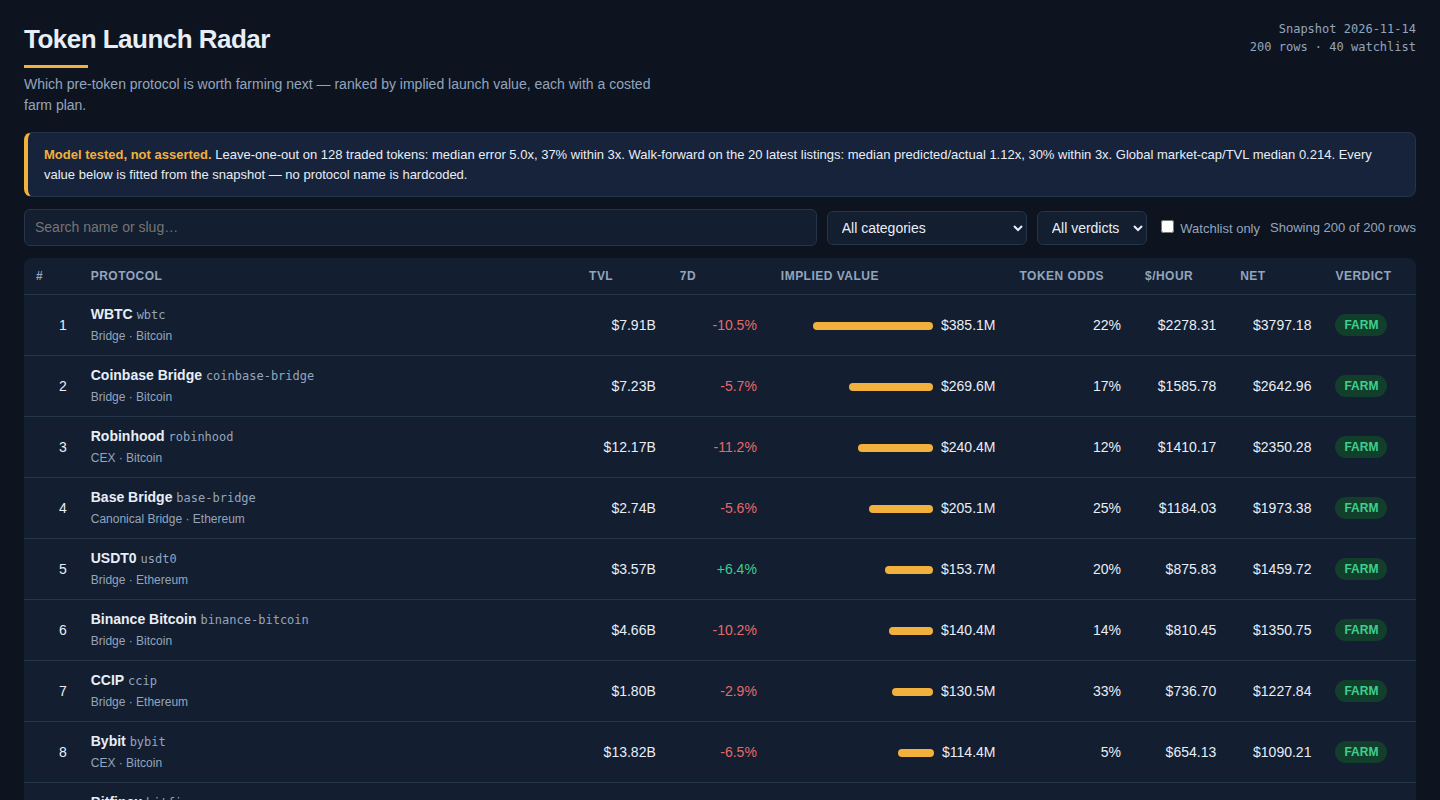
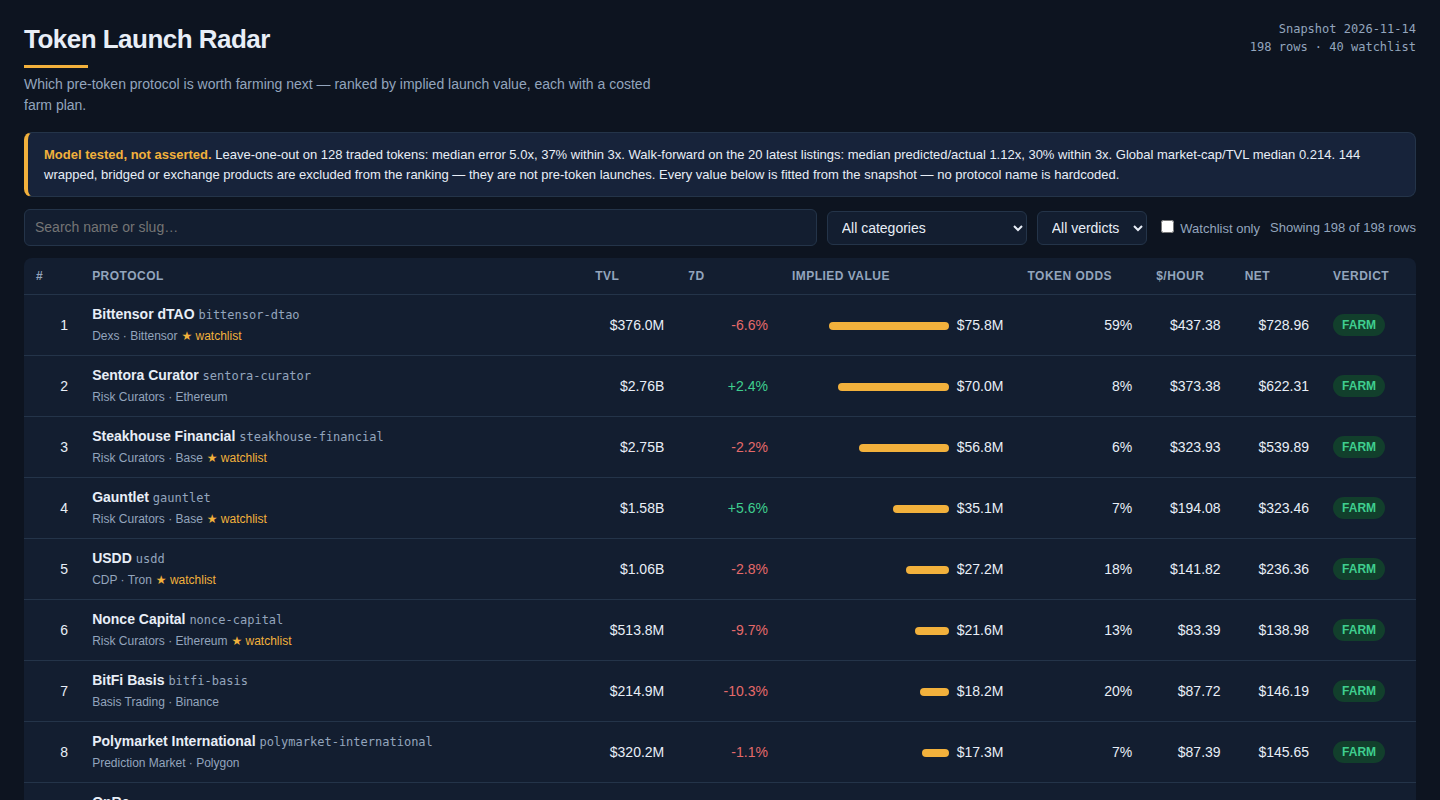
token-radar v12 rev: exclude wrapped/bridge/CEX from the pre-token ranking
Apply the bounty's own watchlist rule to the whole board
(isWrappedOrBridged in lib/model.ts): Bridge, Canonical Bridge,
Liquid Staking, Liquid Restaking, Restaked BTC, CEX categories,
wrapped/staked/staking names, exchange-name prefixes, version
markers. 144 of 342 pre-token protocols excluded; board is now 198
rows (40 watchlist + 158), topped by Bittensor dTAO, Sentora
Curator, Steakhouse, Gauntlet. Screenshots regenerated from the
same build; gates 19/19 clean, determinism verified.

diff --git a/lib/model.ts b/lib/model.ts
@@ -4,6 +4,9 @@
 // snapshot. No protocol name is hardcoded anywhere. The only baked-in numbers
 // are the estimator's shape (shrinkage strength, trim, clamps), the chain cost
 // table (typical gas, rounded), and the farmer's stated position size.
+// A wrapped, bridged, staked or exchange product is never ranked as a
+// pre-token launch: the bounty's own watchlist rule excludes it, and this
+// module applies that rule to the whole board (see isWrappedOrBridged).
 
 export interface Protocol {
   slug: string;
@@ -75,6 +78,7 @@ export interface Validation {
   global_ratio_median: number;
   comps_n: number;
   global_token_rate: number;
+  excluded_wrapped: number;
 }
 
 export interface ModelOut {
@@ -102,6 +106,46 @@ export function clamp(x: number, lo: number, hi: number): number {
 /** Records a token when DefiLlama carries a gecko id or a symbol for it. */
 export function recordsToken(p: Protocol): boolean {
   return p.gecko_id !== null || p.symbol !== null;
+}
+
+// ----------------------------------------------------------------
+// Wrapped / bridged / staked / exchange products
+//
+// The bounty's own watchlist rule keeps these off the watchlist, and the
+// same rule decides the whole board: a wrapped, staked or bridged product
+// of a token that already trades is not a pre-token launch, however large
+// its TVL. WBTC, Binance staked ETH and USDT0 are the rule's own examples.
+// The lists below are the rule's own lists from the bounty text (categories
+// and exchange names), not a list of protocol names: no protocol name is
+// hardcoded anywhere.
+
+/** Categories the watchlist rule excludes: bridges and exchange products. */
+export const EXCLUDED_CATEGORIES = new Set([
+  'Bridge',
+  'Canonical Bridge',
+  'Liquid Staking',
+  'Liquid Restaking',
+  'Restaked BTC',
+  'CEX',
+]);
+
+/** Exchange names the watchlist rule excludes when a name begins with one. */
+export const EXCHANGE_NAMES = [
+  'Binance', 'Coinbase', 'Bybit', 'Kraken', 'Bitget', 'OKX', 'Bitfinex', 'Gemini',
+];
+
+const WRAPPED_WORD = /\b(wrapped|staked|staking)\b/i;
+const VERSION_MARKER = /\s(v\d+|\d+\.\d+)$/i;
+
+/** True when a protocol is a wrapped, staked or bridged product of a token
+ *  that already trades, or an exchange product — the watchlist rule's
+ *  exclusion, applied to the whole board. */
+export function isWrappedOrBridged(p: Protocol): boolean {
+  if (EXCLUDED_CATEGORIES.has(p.category ?? '')) return true;
+  if (WRAPPED_WORD.test(p.name)) return true;
+  if (EXCHANGE_NAMES.some((n) => p.name.startsWith(n))) return true;
+  if (VERSION_MARKER.test(p.name)) return true;
+  return false;
 }
 
 /** Priced comps: a token that trades with a positive market cap and real TVL. */
@@ -330,8 +374,14 @@ export function buildBoard(snap: Snapshot): ModelOut {
 
   const preToken = ps.filter((p) => !recordsToken(p));
   const watchRows = preToken.filter((p) => watch.has(p.slug));
+  // The extra rows are pre-token protocols below the floor — with the
+  // watchlist rule's wrapped/bridge/CEX exclusion applied to the whole
+  // board, so a wrapped product of a token that already trades can never
+  // top the ranking on TVL alone. The watchlist rows pass the rule by
+  // construction (the snapshot's list was produced by it).
+  const excludedWrapped = preToken.filter((p) => !watch.has(p.slug) && isWrappedOrBridged(p)).length;
   const extra = preToken
-    .filter((p) => !watch.has(p.slug))
+    .filter((p) => !watch.has(p.slug) && !isWrappedOrBridged(p))
     .sort((a, b) => b.tvl_usd - a.tvl_usd)
     .slice(0, 160);
   const picked = [...watchRows, ...extra];
@@ -415,6 +465,7 @@ export function buildBoard(snap: Snapshot): ModelOut {
       global_ratio_median: +Math.exp(fit.globalLog).toFixed(3),
       comps_n: comps.length,
       global_token_rate: +rates.global.toFixed(3),
+      excluded_wrapped: excludedWrapped,
     },
     fitted: { global_log_ratio: +fit.globalLog.toFixed(3), by_category: byCat },
     comp_log_ratios: compLogRatios,

diff --git a/dashboard/index.html b/dashboard/index.html
@@ -53,7 +53,7 @@
 </main>
 
 <footer>
-  <p>Implied value is this radar's own claim, fitted from the snapshot — never make.fun's. A $1,000 farm is assumed to capture 0.001% of launch value; time is valued at $15 an hour. A protocol is said to record no token, never that it has none. Model: shrinkage-trimmed category comps (k=5) with token odds — see 00-model-validation.md. Protocols whose token already trades are the training set, not the ranking.</p>
+  <p>Implied value is this radar's own claim, fitted from the snapshot — never make.fun's. A $1,000 farm is assumed to capture 0.001% of launch value; time is valued at $15 an hour. A protocol is said to record no token, never that it has none. Model: shrinkage-trimmed category comps (k=5) with token odds — see 00-model-validation.md. Protocols whose token already trades are the training set, not the ranking — and wrapped, bridged, staked and exchange products are excluded from it: they are not pre-token launches.</p>
 </footer>
 
 <script src="../data.js"></script>

diff --git a/dashboard/app.js b/dashboard/app.js
@@ -23,7 +23,9 @@ let sortKey = 'rank', sortDir = 1;
     `${Math.round(v.loo_within_3x * 100)}% within 3x. ` +
     `Walk-forward on the ${v.wf_n} latest listings: median predicted/actual ${v.wf_median_pred_actual.toFixed(2)}x, ` +
     `${Math.round(v.wf_within_3x * 100)}% within 3x. ` +
-    `Global market-cap/TVL median ${v.global_ratio_median}. Every value below is fitted from the snapshot — no protocol name is hardcoded.`;
+    `Global market-cap/TVL median ${v.global_ratio_median}. ` +
+    `${v.excluded_wrapped} wrapped, bridged or exchange products are excluded from the ranking — they are not pre-token launches. ` +
+    `Every value below is fitted from the snapshot — no protocol name is hardcoded.`;
   $('meta').textContent = `Snapshot ${B.as_of}\n${rows.length} rows · ${rows.filter((r) => r.is_watchlist).length} watchlist`;
 })();
 

diff --git a/dashboard/00-model-validation.md b/dashboard/00-model-validation.md
@@ -76,10 +76,31 @@ uses the plan's own numbers:
 - FARM when net is over $100 and over $20 an hour; THIN when net is over
   $0; SKIP otherwise. The board shows $/hour and net on every row.
 
+## Wrapped, bridged and exchange products are not launches
+
+The board ranks pre-token launches only. The bounty's own watchlist rule
+keeps wrapped, staked and bridged products off the watchlist, and this
+radar applies the same rule to the whole board (`isWrappedOrBridged` in
+`lib/model.ts`): a protocol is excluded from the ranking when its category
+is Bridge, Canonical Bridge, Liquid Staking, Liquid Restaking, Restaked
+BTC or CEX, when its name carries a whole word wrapped, staked or staking,
+when it begins with an exchange's name (Binance, Coinbase, Bybit, Kraken,
+Bitget, OKX, Bitfinex, Gemini), or when its name ends in a version marker.
+Those lists are the bounty's own rule, not a list of protocol names — no
+protocol name is hardcoded anywhere in the code. The rule excludes 144 of
+the snapshot's 342 protocols that record no token: the biggest are the
+exchanges and bridges (Bybit, Bitfinex, Robinhood, WBTC, Binance staked
+ETH, Coinbase Bridge, Bitget, Binance Bitcoin, Gemini, USDT0) — each is a
+wrapped or bridged product of a token that already trades, or an exchange
+itself, so none of them is a token that has yet to launch. WBTC, Binance
+staked ETH and USDT0 are the rule's own examples, and the code counts the
+excluded rows every run (144) and shows the count on the board's strip.
+
 ## What the board covers
 
-200 rows: the whole 40-protocol watchlist, plus the 160 largest
-pre-token protocols below the $50,000,000 floor, by TVL. Protocols whose
-token already trades are not ranked — they are the training set the model
-is fitted on, and the page says so. The watchlist is the floor, never the
-ceiling.
+198 rows: the whole 40-protocol watchlist, plus the 158 largest
+pre-token protocols below the $50,000,000 floor, by TVL, after the
+exclusion above (158 is every eligible protocol below the floor — the
+exclusion leaves no more). Protocols whose token already trades are not ranked —
+they are the training set the model is fitted on, and the page says so.
+The watchlist is the floor, never the ceiling.

diff --git a/README.md b/README.md
@@ -13,10 +13,12 @@ value, each with a costed farm plan. Built for the make.fun
 `main.ts` reads the sealed snapshot (`/input/snapshot.json`: 758 protocols,
 40 watchlist, 128 traded comps) and writes the graded output:
 
-- `board.json` — the ranked board: 200 rows (the whole 40-protocol watchlist
-  plus the 160 largest pre-token protocols below the $50,000,000 floor), each
-  with a fitted market cap, token odds, implied value, a five-step farm plan
-  with its own dollar cost and minutes, and a FARM / THIN / SKIP verdict.
+- `board.json` — the ranked board: 198 rows (the whole 40-protocol watchlist
+  plus the 158 largest pre-token protocols below the $50,000,000 floor, after
+  excluding 144 wrapped/bridged/staked/CEX products by the bounty's own
+  watchlist rule), each with a fitted market cap, token odds, implied value,
+  a five-step farm plan with its own dollar cost and minutes, and a
+  FARM / THIN / SKIP verdict.
 - `data.js` — the same board as `window.BOARD` for the dashboard.
 - `dashboard/` — the board itself: a sortable, filterable table, a
   validation strip, and a detail view with a comps chart and the farm plan.
